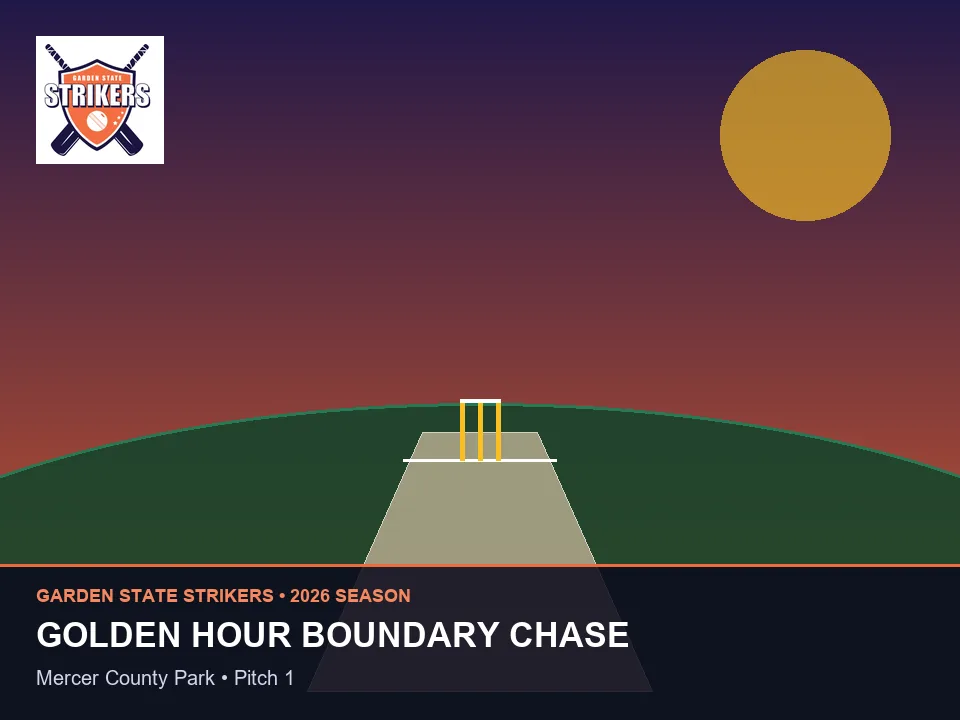
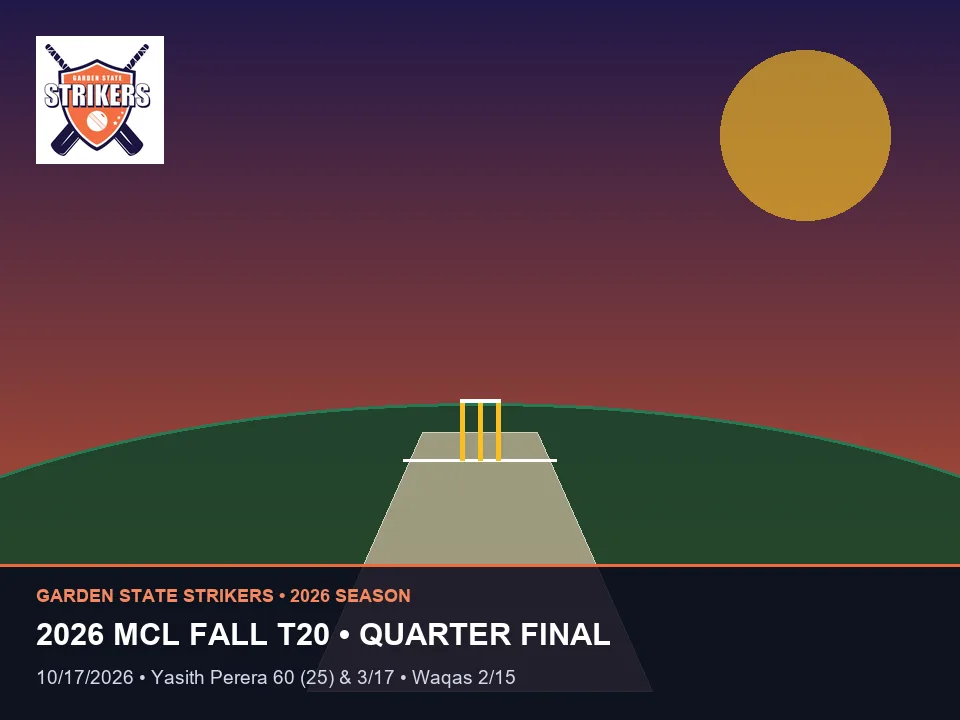
feat: repopulate Gallery with 2024-2026 playoff recaps and update season filters

Changed region(s): [[0.0312, 0.8556, 0.6562, 0.9778]]

diff --git a/index.html b/index.html
@@ -17,8 +17,8 @@
   <link rel="apple-touch-icon" sizes="180x180" href="./assets/icons/apple-touch-icon.png" />
 
   <!-- Stylesheets -->
-  <link rel="stylesheet" href="./css/tokens.css?v=2.2.0" />
-  <link rel="stylesheet" href="./css/components.css?v=2.2.0" />
+  <link rel="stylesheet" href="./css/tokens.css?v=2.3.0" />
+  <link rel="stylesheet" href="./css/components.css?v=2.3.0" />
   <script>
     (function () {
       try {
@@ -202,12 +202,12 @@
         </div>
       </section>
 
-      <!-- VIEW 3: MATCHDAY & TEAM GALLERY (#gallery) -->
+      <!-- VIEW 4: MATCHDAY & TEAM GALLERY (#gallery) -->
       <section id="view-gallery" class="view-section" aria-labelledby="gallery-heading">
         <div class="section-header" style="margin-top: 0;">
           <div>
             <h1 id="gallery-heading" class="section-title">Matchday &amp; Team Gallery</h1>
-            <p class="section-subtitle">Moments from Mercer County Park &amp; Thompson Park</p>
+            <p class="section-subtitle">Playoff &amp; Championship Finals Highlights (2024 – 2026)</p>
           </div>
         </div>
 
@@ -299,6 +299,6 @@
   </div>
 
   <!-- Modular Vanilla JS Entrypoint -->
-  <script type="module" src="./js/app.js?v=2.2.0"></script>
+  <script type="module" src="./js/app.js?v=2.3.0"></script>
 </body>
 </html>

diff --git a/css/components.css b/css/components.css
@@ -378,7 +378,7 @@
     position: fixed;
     top: var(--safe-top);
     bottom: auto;
-    left: 50%;
+    left: 47%;
     right: auto;
     transform: translateX(-50%);
     height: var(--header-height);
@@ -396,9 +396,9 @@
     border: 1px solid var(--border-hairline);
     border-radius: var(--radius-pill);
     padding: 4px;
-    height: 42px;
+    height: 40px;
     width: auto;
-    gap: 4px;
+    gap: 2px;
   }
 
   .nav-item {
@@ -408,10 +408,10 @@
 
   .nav-btn {
     flex-direction: row;
-    gap: 8px;
-    padding: 0 18px;
+    gap: 6px;
+    padding: 0 13px;
     border-radius: var(--radius-pill);
-    font-size: var(--text-sm);
+    font-size: var(--text-xs);
     color: var(--text-secondary);
   }
 
@@ -1771,12 +1771,9 @@
 }
 
 .gallery-caption {
-  font-size: var(--text-xs);
+  font-size: var(--text-sm);
   color: var(--text-secondary);
-  display: -webkit-box;
-  -webkit-line-clamp: 2;
-  -webkit-box-orient: vertical;
-  overflow: hidden;
+  line-height: 1.55;
 }
 
 .gallery-meta {

diff --git a/js/app.js b/js/app.js
@@ -2,8 +2,8 @@
  * GARDEN STATE STRIKERS PWA — MAIN CONTROLLER, HISTORY API ROUTER & SERVICE WORKER BOOTSTRAP
  */
 
-import { renderClubView, renderHistoryView, renderSquadView, renderGalleryView, renderLegalSheet } from './renderer.js?v=2.2.0';
-import { SocialSheetController } from './social-sheet.js?v=2.2.0';
+import { renderClubView, renderHistoryView, renderSquadView, renderGalleryView, renderLegalSheet } from './renderer.js?v=2.3.0';
+import { SocialSheetController } from './social-sheet.js?v=2.3.0';
 
 const STATE = {
   club: null,

diff --git a/js/social-sheet.js b/js/social-sheet.js
@@ -3,7 +3,7 @@
  * Controls the slide-up iOS <dialog> sheet with lazy-loaded YouTube embed & native app deep links.
  */
 
-import { escapeHtml, buildPlayerAvatarHtml } from './renderer.js?v=2.2.0';
+import { escapeHtml, buildPlayerAvatarHtml } from './renderer.js?v=2.3.0';
 
 /**
  * Resolves deep links and web fallback URLs for Instagram, X, and YouTube

diff --git a/sw.js b/sw.js
@@ -6,7 +6,7 @@
  * 3. Headless JSON Data (data/*.json): Stale-While-Revalidate for instant field rendering + silent background refresh
  */
 
-const CACHE_VERSION = 'gss-v2.2.1';
+const CACHE_VERSION = 'gss-v2.3.0';
 const SHELL_CACHE = `${CACHE_VERSION}-shell`;
 const STATIC_CACHE = `${CACHE_VERSION}-static`;
 const DATA_CACHE = `${CACHE_VERSION}-data`;
